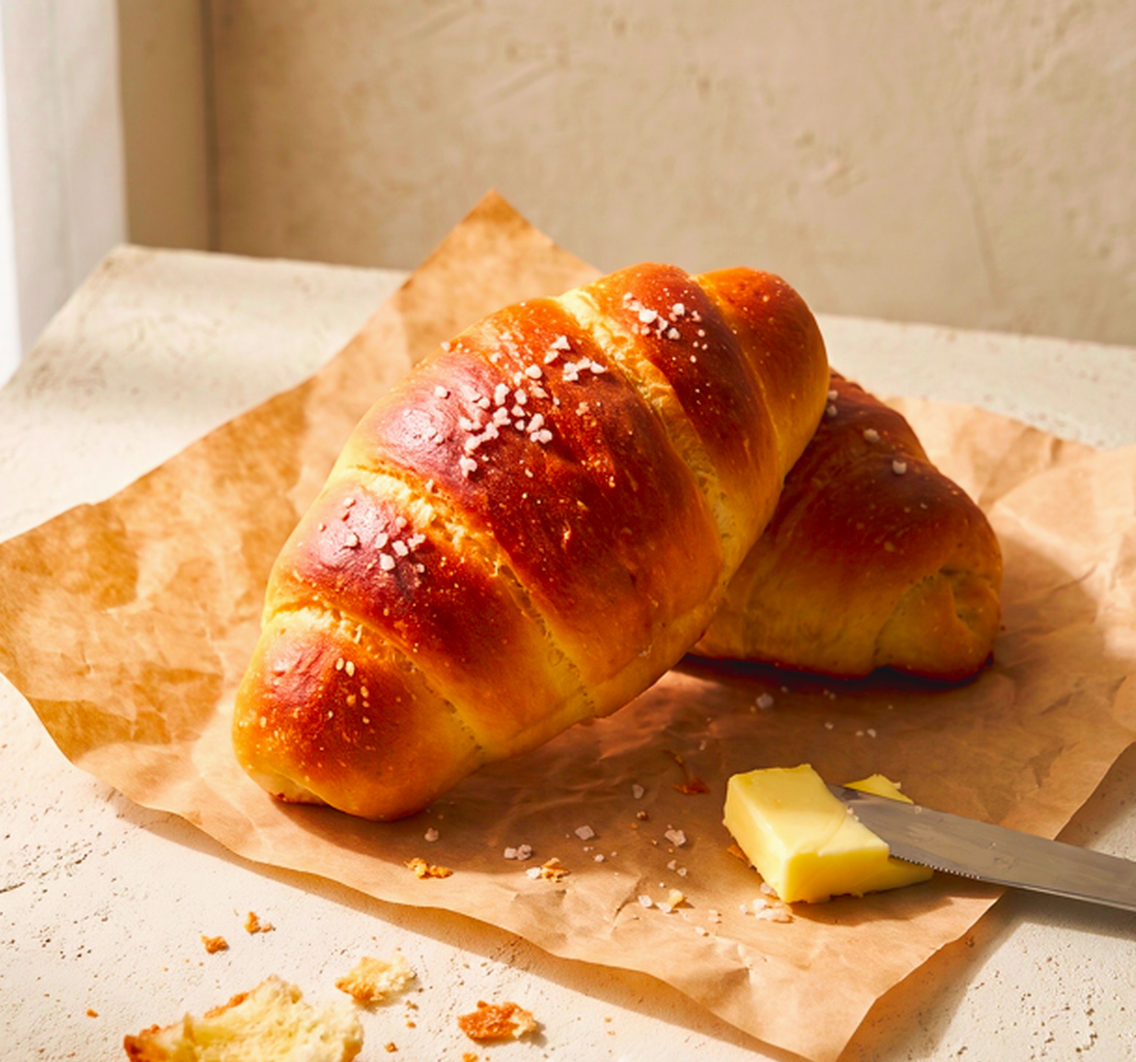
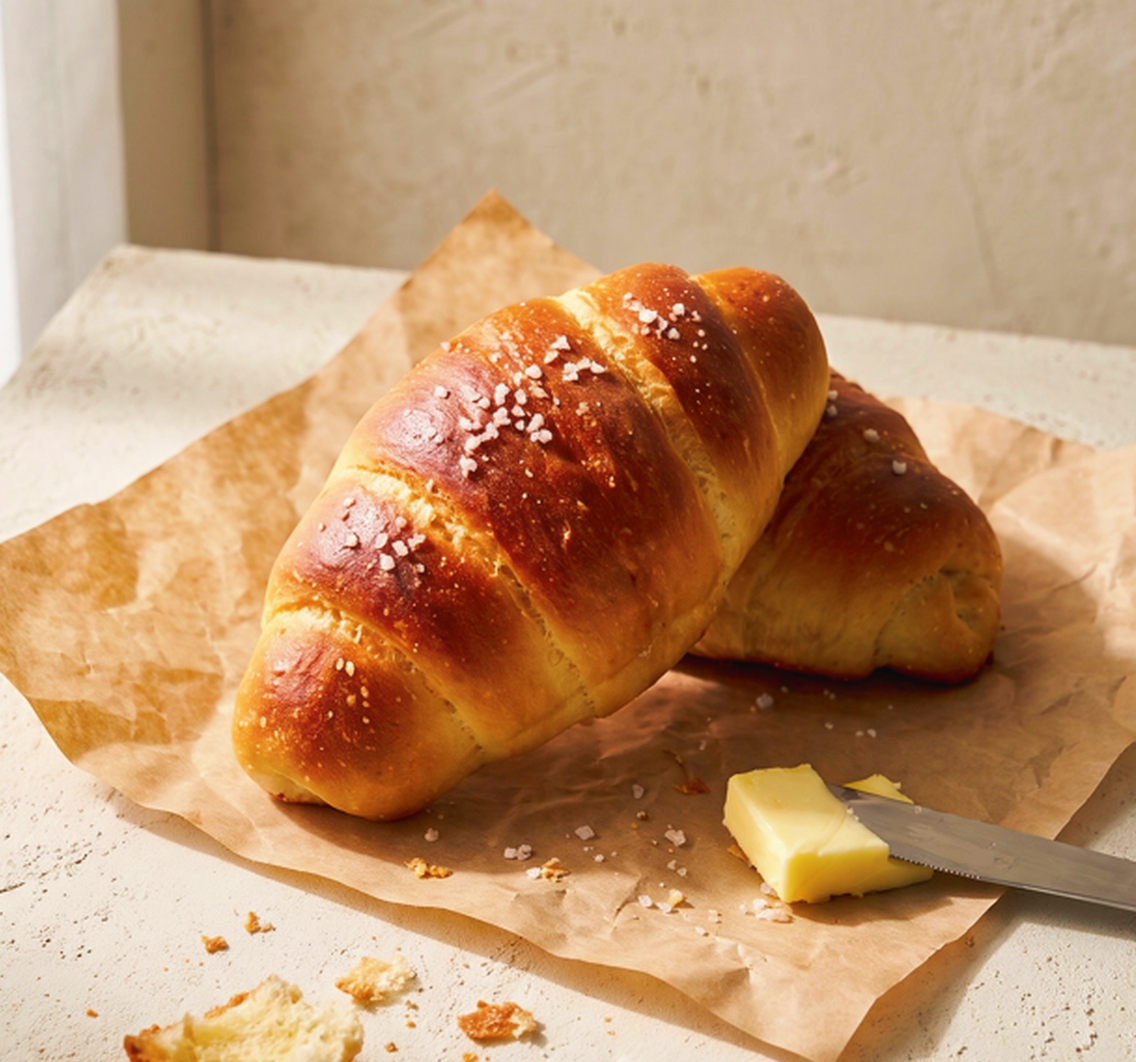
사진 톤 보정 강도 50%로 완화
Claude-Session: https://claude.ai/code/session_012HYTAtRX4y2XSQaXUTKD2R

diff --git a/index.html b/index.html
@@ -99,13 +99,13 @@
 <div class="stage" id="stage">
   <div class="frame" id="frame" role="img" aria-label="Picky 카페 메뉴판: 소금빵 사진과 음료 메뉴">
     <div id="left">
-      <img id="photo" src="photo.jpg?v=10" alt="">
+      <img id="photo" src="photo.jpg?v=11" alt="">
       <div class="slides" id="slides" aria-hidden="true">
         <img class="slide" src="slides/05.jpg" alt="">
-        <img class="slide" src="slides/01.jpg?v=2" alt="">
-        <img class="slide" src="slides/02.jpg?v=2" alt="">
-        <img class="slide" src="slides/03.jpg?v=2" alt="">
-        <img class="slide" src="slides/04.jpg?v=2" alt="">
+        <img class="slide" src="slides/01.jpg?v=3" alt="">
+        <img class="slide" src="slides/02.jpg?v=3" alt="">
+        <img class="slide" src="slides/03.jpg?v=3" alt="">
+        <img class="slide" src="slides/04.jpg?v=3" alt="">
       </div>
       <canvas id="steam" aria-hidden="true"></canvas>
       <ul class="price" id="price">
